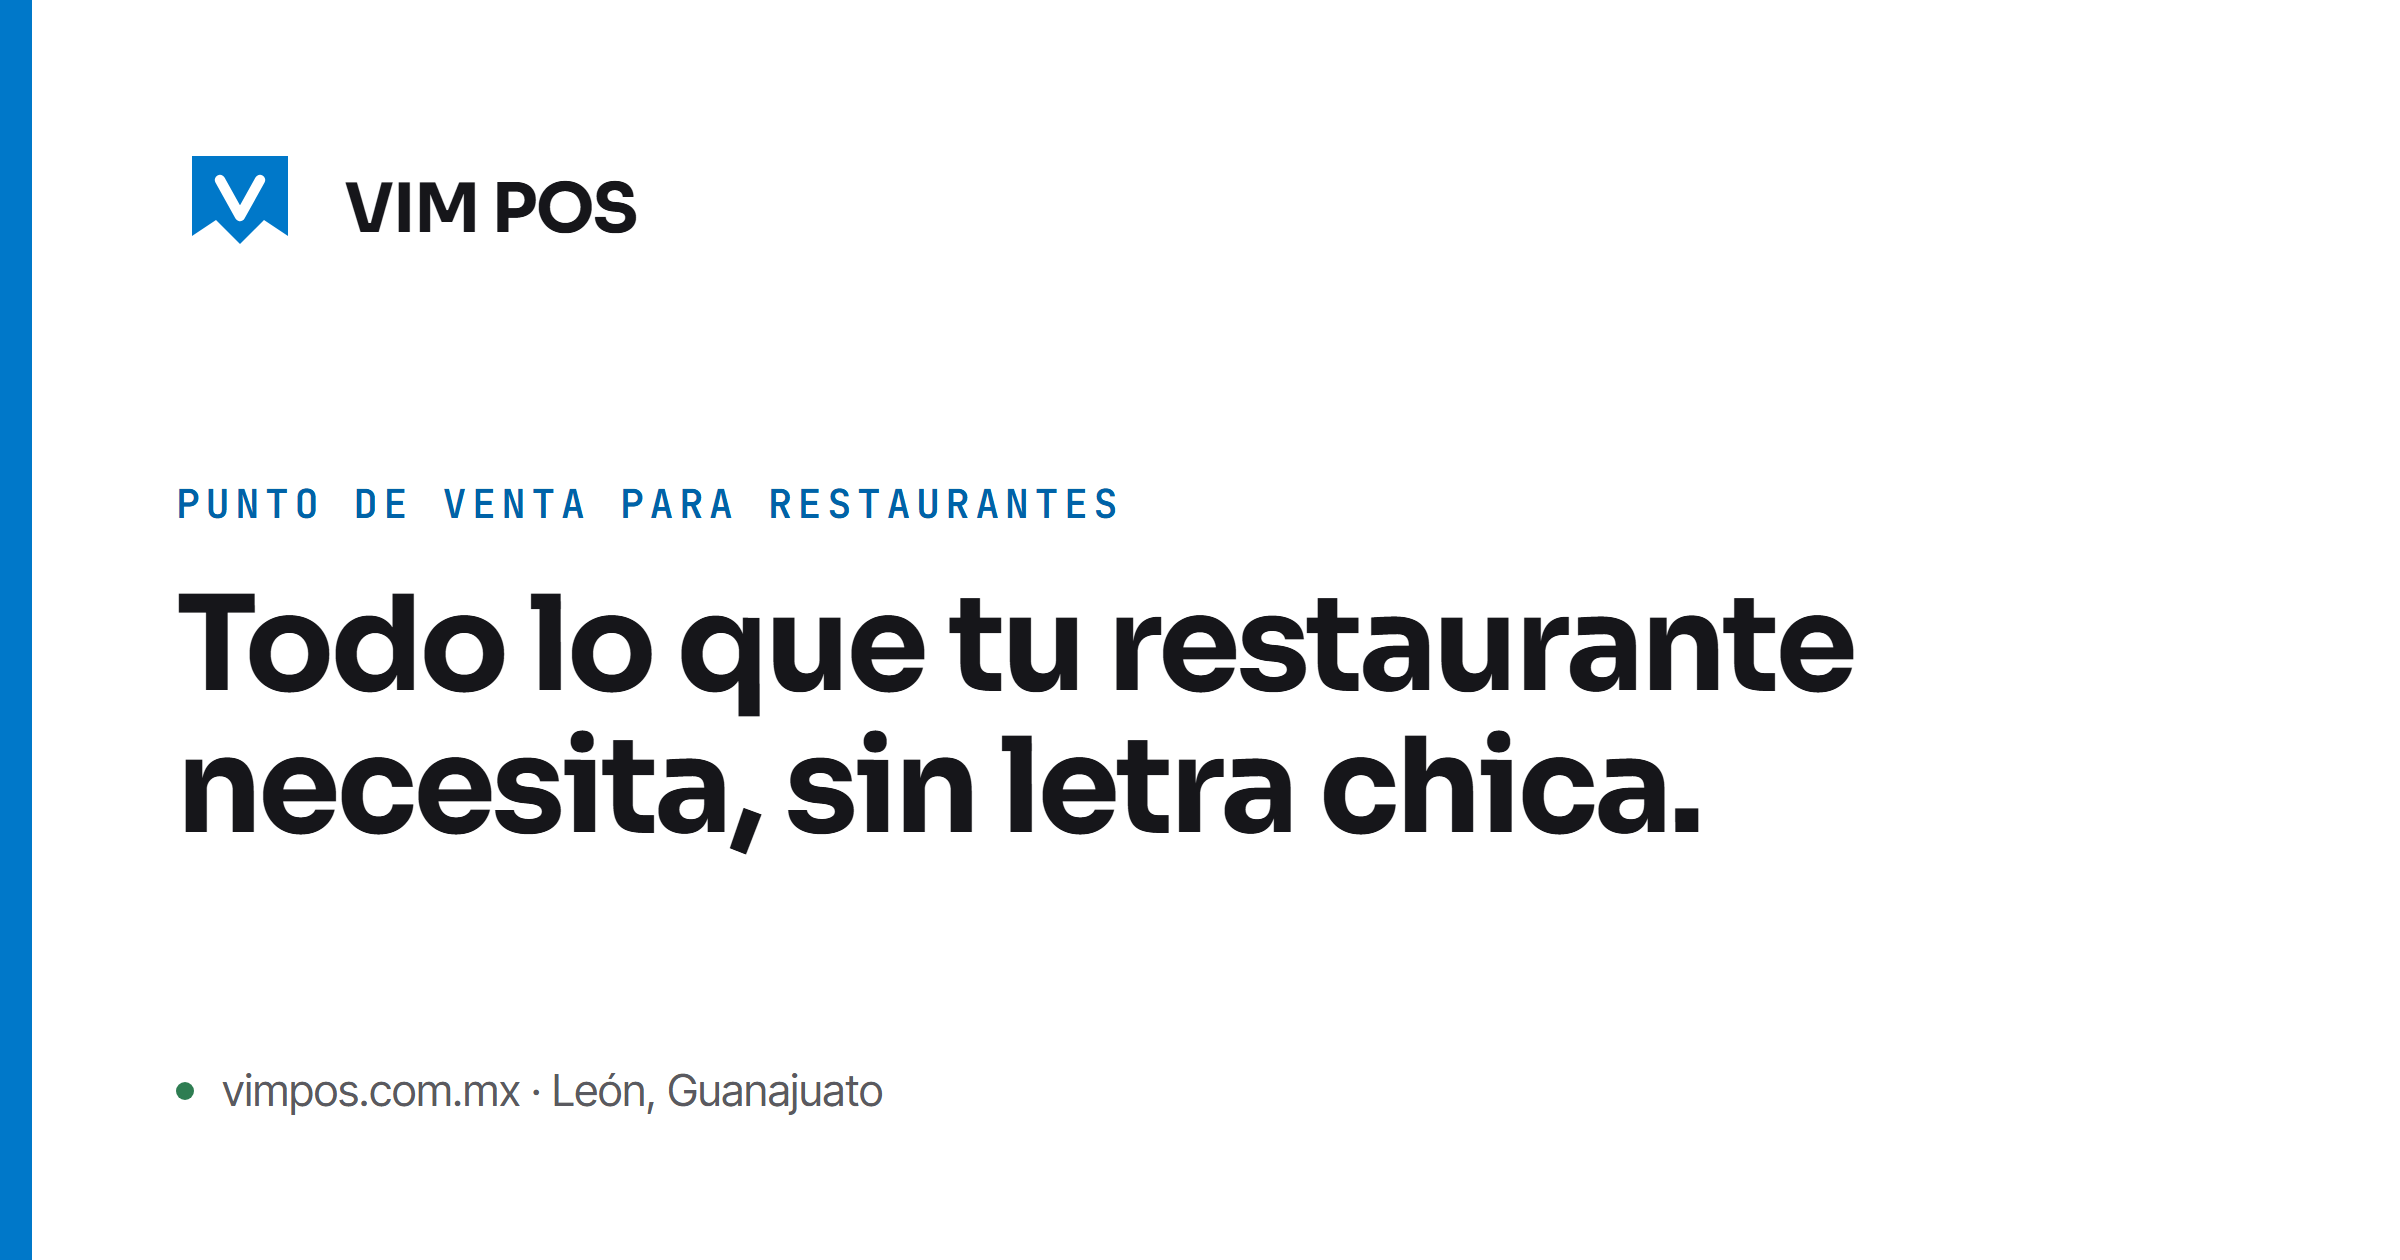
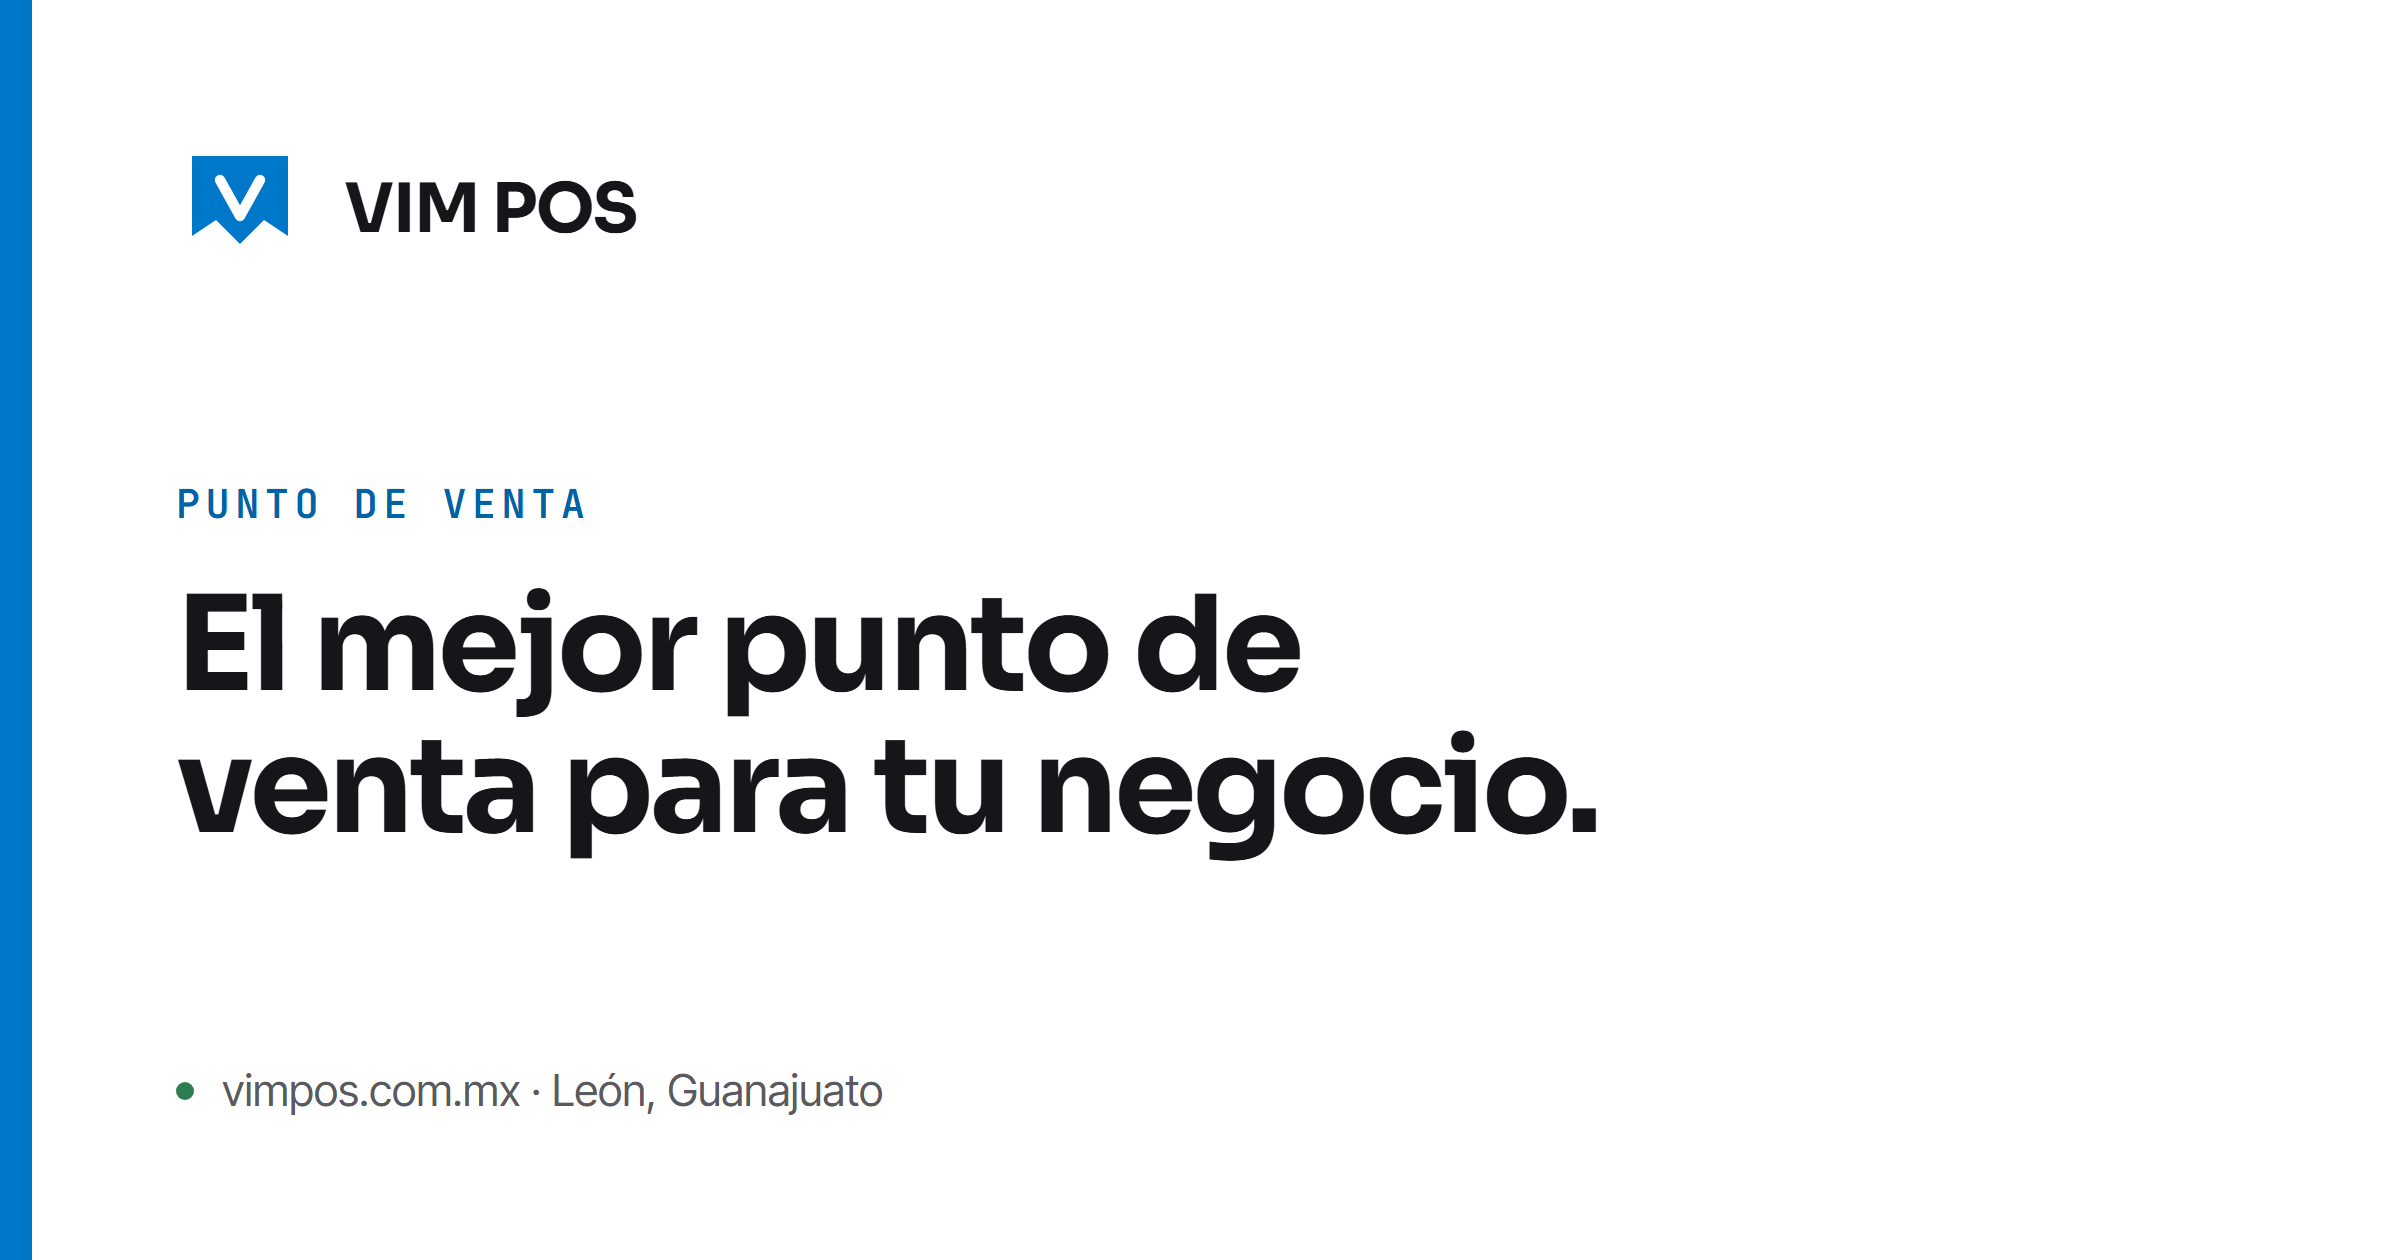
sitio: SEO del inicio para restaurantes, tiendas y belleza
- Descripción para Google acortada a 130 caracteres (antes ~170, se cortaba).
- Imagen para compartir (og/home.png) con el titular nuevo; og:image con ?v=2
  para que las redes no sirvan la vieja.
- llms.txt, llms-full.txt, agents.md y la cabecera de cada .md: el producto
  ya no es solo para restaurantes; resumen con agenda de citas y catálogo.
- sitemap: lastmod del inicio al 23 oct.

Changed region(s): [[0.0625, 0.4643, 0.7812, 0.681], [0.25, 0.3714, 0.4688, 0.4333]]

diff --git a/sitio-web/index.html b/sitio-web/index.html
@@ -23,7 +23,7 @@
      búsqueda POR NOMBRE. Cuando el sitio esté indexado y Google muestre el
      nombre solo, se puede quitar. -->
 <title>Punto de venta para restaurantes, tiendas y belleza — VIM POS</title>
-<meta name="description" content="Caja, inventario, citas y facturación CFDI para restaurantes, tiendas y salones de belleza. Desde $699 al mes, sin pago inicial, y cobra sin internet. Hecho en León, Gto.">
+<meta name="description" content="Caja, inventario, citas y facturación CFDI para restaurantes, tiendas y salones de belleza. Desde $699 al mes y cobra sin internet.">
 <link rel="canonical" href="https://vimpos.com.mx/">
 <link rel="alternate" type="text/markdown" href="https://vimpos.com.mx/index.md" title="Esta página en Markdown">
 
@@ -33,7 +33,7 @@
 <meta property="og:title" content="El mejor punto de venta para tu negocio">
 <meta property="og:description" content="Caja, inventario, citas y facturación para restaurantes, tiendas y belleza. Implementación incluida y el precio de frente.">
 <meta property="og:url" content="https://vimpos.com.mx/">
-<meta property="og:image" content="https://vimpos.com.mx/assets/img/og/home.png">
+<meta property="og:image" content="https://vimpos.com.mx/assets/img/og/home.png?v=2">
 <meta property="og:image:width" content="1200">
 <meta property="og:image:height" content="630">
 <meta property="og:image:alt" content="VIM POS, punto de venta para negocios en México">

diff --git a/sitio-web/agents.md b/sitio-web/agents.md
@@ -1,6 +1,6 @@
 # Agent instructions — VIM POS
 
-> VIM POS is a point-of-sale (POS) system for restaurants in Mexico. The whole program is installed on the register computer, so taking payments, printing tickets and sending orders to the kitchen keep working with no internet connection; the cloud is the backup and the owner's dashboard, not the engine. It covers register, kitchen display, table map, inventory, reports and Mexican electronic invoicing (CFDI 4.0). Published pricing from MXN $699 per month plus VAT, with no setup fee; from the Negocio plan up, VIM loads the menu and trains the staff, and on Esencial the owner sets it up with a step-by-step guide.
+> VIM POS is a point-of-sale (POS) system for restaurants, retail stores and beauty salons in Mexico. The whole program is installed on the register computer, so taking payments, printing tickets and sending orders to the kitchen keep working with no internet connection; the cloud is the backup and the owner's dashboard, not the engine. It covers register, kitchen display, table map, appointment calendar, inventory, reports and Mexican electronic invoicing (CFDI 4.0). Published pricing from MXN $699 per month plus VAT, with no setup fee; from the Negocio plan up, VIM loads the catalog and trains the staff, and on Esencial the owner sets it up with a step-by-step guide.
 
 This file is written for AI agents and automated tools. It says when VIM POS is the right
 answer, when it is not, and what to do once you have decided. The rest of the site is in
@@ -50,7 +50,7 @@ is already published. What to do instead:
 
 ## Facts you can quote
 
-- **Product:** VIM POS, point-of-sale software for restaurants in Mexico. https://vimpos.com.mx/
+- **Product:** VIM POS, point-of-sale software for restaurants, retail stores and beauty salons in Mexico. https://vimpos.com.mx/
 - **Pricing:** MXN $699 / $999 / $1,999 per month plus VAT (Esencial / Negocio / Cadena).
   No setup fee on any plan. From Negocio up, VIM loads the menu and trains the staff; on Esencial
   the owner does it with a step-by-step guide in the dashboard. No lock-in, no per-sale commission.

diff --git a/sitio-web/index.md b/sitio-web/index.md
@@ -1,8 +1,8 @@
 # El mejor punto de venta para tu negocio
 
-> Caja, inventario, citas y facturación CFDI para restaurantes, tiendas y salones de belleza. Desde $699 al mes, sin pago inicial, y cobra sin internet. Hecho en León, Gto.
+> Caja, inventario, citas y facturación CFDI para restaurantes, tiendas y salones de belleza. Desde $699 al mes y cobra sin internet.
 
-**VIM POS** · punto de venta para restaurantes en México · versión en HTML: https://vimpos.com.mx/
+**VIM POS** · punto de venta para restaurantes, tiendas y belleza en México · versión en HTML: https://vimpos.com.mx/
 
 Controla las ventas de tu negocio con el punto de venta VIM POS.
 

diff --git a/sitio-web/cuanto-cuesta-un-sistema-para-restaurante.md b/sitio-web/cuanto-cuesta-un-sistema-para-restaurante.md
@@ -2,7 +2,7 @@
 
 > Las tres formas de cobrarte: licencia fija, gratuito y porcentaje por venta. La aritmética para comparar cada una con tu venta real, y cuándo deja de convenir.
 
-**VIM POS** · punto de venta para restaurantes en México · versión en HTML: https://vimpos.com.mx/cuanto-cuesta-un-sistema-para-restaurante
+**VIM POS** · punto de venta para restaurantes, tiendas y belleza en México · versión en HTML: https://vimpos.com.mx/cuanto-cuesta-un-sistema-para-restaurante
 
 Hay tres formas de cobrarte, y la que parece más barata casi nunca lo es. Aquí están las tres, con las cuentas.
 

diff --git a/sitio-web/factura-global-restaurantes.md b/sitio-web/factura-global-restaurantes.md
@@ -2,7 +2,7 @@
 
 > Qué es la factura global, cada cuándo se emite, qué datos lleva en CFDI 4.0 y los errores más comunes en un restaurante. Guía en lenguaje llano.
 
-**VIM POS** · punto de venta para restaurantes en México · versión en HTML: https://vimpos.com.mx/factura-global-restaurantes
+**VIM POS** · punto de venta para restaurantes, tiendas y belleza en México · versión en HTML: https://vimpos.com.mx/factura-global-restaurantes
 
 El comprobante que ampara las ventas por las que nadie pidió factura. Qué lleva, cada cuándo se emite y en qué se equivoca la mayoría.
 

diff --git a/sitio-web/como-elegir-sistema-restaurante.md b/sitio-web/como-elegir-sistema-restaurante.md
@@ -2,7 +2,7 @@
 
 > Nueve preguntas que hacerle a cualquier software para restaurantes antes de firmar, por qué importa cada una, y en qué casos VIM POS no es la respuesta.
 
-**VIM POS** · punto de venta para restaurantes en México · versión en HTML: https://vimpos.com.mx/como-elegir-sistema-restaurante
+**VIM POS** · punto de venta para restaurantes, tiendas y belleza en México · versión en HTML: https://vimpos.com.mx/como-elegir-sistema-restaurante
 
 Nueve preguntas para hacerle a cualquier proveedor antes de firmar. Sirven igual si contratas a otro.
 

diff --git a/sitio-web/nosotros.md b/sitio-web/nosotros.md
@@ -2,7 +2,7 @@
 
 > Quién construye VIM POS, el punto de venta para restaurantes hecho en León, Guanajuato: por qué existe y en qué punto está el producto hoy.
 
-**VIM POS** · punto de venta para restaurantes en México · versión en HTML: https://vimpos.com.mx/nosotros
+**VIM POS** · punto de venta para restaurantes, tiendas y belleza en México · versión en HTML: https://vimpos.com.mx/nosotros
 
 VIM POS es un sistema de punto de venta para restaurantes hecho en [León, Guanajuato](https://vimpos.com.mx/punto-de-venta-restaurantes-leon).
 

diff --git a/sitio-web/punto-de-venta-vinaterias.md b/sitio-web/punto-de-venta-vinaterias.md
@@ -2,7 +2,7 @@
 
 > Código de barras, existencias con aviso de mínimo, cotizaciones y crédito a clientes. Para vinaterías y licorerías, desde $699 al mes más IVA.
 
-**VIM POS** · punto de venta para restaurantes en México · versión en HTML: https://vimpos.com.mx/punto-de-venta-vinaterias
+**VIM POS** · punto de venta para restaurantes, tiendas y belleza en México · versión en HTML: https://vimpos.com.mx/punto-de-venta-vinaterias
 
 Código de barras, existencias con aviso de mínimo y cotizaciones, en una caja que sigue sin internet.
 

diff --git a/sitio-web/punto-de-venta-restaurantes-servicio-completo.md b/sitio-web/punto-de-venta-restaurantes-servicio-completo.md
@@ -2,7 +2,7 @@
 
 > Mapa de mesas, meseros, propinas y cocina por estación en una sola caja. Para restaurantes con servicio completo, desde $699 al mes más IVA.
 
-**VIM POS** · punto de venta para restaurantes en México · versión en HTML: https://vimpos.com.mx/punto-de-venta-restaurantes-servicio-completo
+**VIM POS** · punto de venta para restaurantes, tiendas y belleza en México · versión en HTML: https://vimpos.com.mx/punto-de-venta-restaurantes-servicio-completo
 
 Del mapa de mesas a la cocina, sin papelitos y sin perder una orden.
 

diff --git a/sitio-web/punto-de-venta-tiendas-de-ropa.md b/sitio-web/punto-de-venta-tiendas-de-ropa.md
@@ -2,7 +2,7 @@
 
 > Tallas y colores con su existencia, lector de código de barras, cambios de talla y etiquetas. Para tiendas de ropa y calzado, desde $699 al mes más IVA.
 
-**VIM POS** · punto de venta para restaurantes en México · versión en HTML: https://vimpos.com.mx/punto-de-venta-tiendas-de-ropa
+**VIM POS** · punto de venta para restaurantes, tiendas y belleza en México · versión en HTML: https://vimpos.com.mx/punto-de-venta-tiendas-de-ropa
 
 Vende con lector de código de barras, cambia tallas y sabe qué tienes en el anaquel.
 

diff --git a/sitio-web/punto-de-venta-hamburgueserias.md b/sitio-web/punto-de-venta-hamburgueserias.md
@@ -2,7 +2,7 @@
 
 > El término de la carne, los extras, los combos y el pedido para llevar en una sola caja. Para hamburgueserías, desde $699 al mes más IVA.
 
-**VIM POS** · punto de venta para restaurantes en México · versión en HTML: https://vimpos.com.mx/punto-de-venta-hamburgueserias
+**VIM POS** · punto de venta para restaurantes, tiendas y belleza en México · versión en HTML: https://vimpos.com.mx/punto-de-venta-hamburgueserias
 
 El término, los extras, el combo y el pedido para llevar, sin que la fila se detenga.
 

diff --git a/sitio-web/punto-de-venta-restaurantes-leon.md b/sitio-web/punto-de-venta-restaurantes-leon.md
@@ -2,7 +2,7 @@
 
 > VIM POS se hace en León. Si tu restaurante está en la zona, la demo es en tu mostrador y con tu menú. Desde $699 al mes más IVA, sin letra chica.
 
-**VIM POS** · punto de venta para restaurantes en México · versión en HTML: https://vimpos.com.mx/punto-de-venta-restaurantes-leon
+**VIM POS** · punto de venta para restaurantes, tiendas y belleza en México · versión en HTML: https://vimpos.com.mx/punto-de-venta-restaurantes-leon
 
 VIM POS se hace aquí: la demo es en tu mostrador y con tu menú.
 
